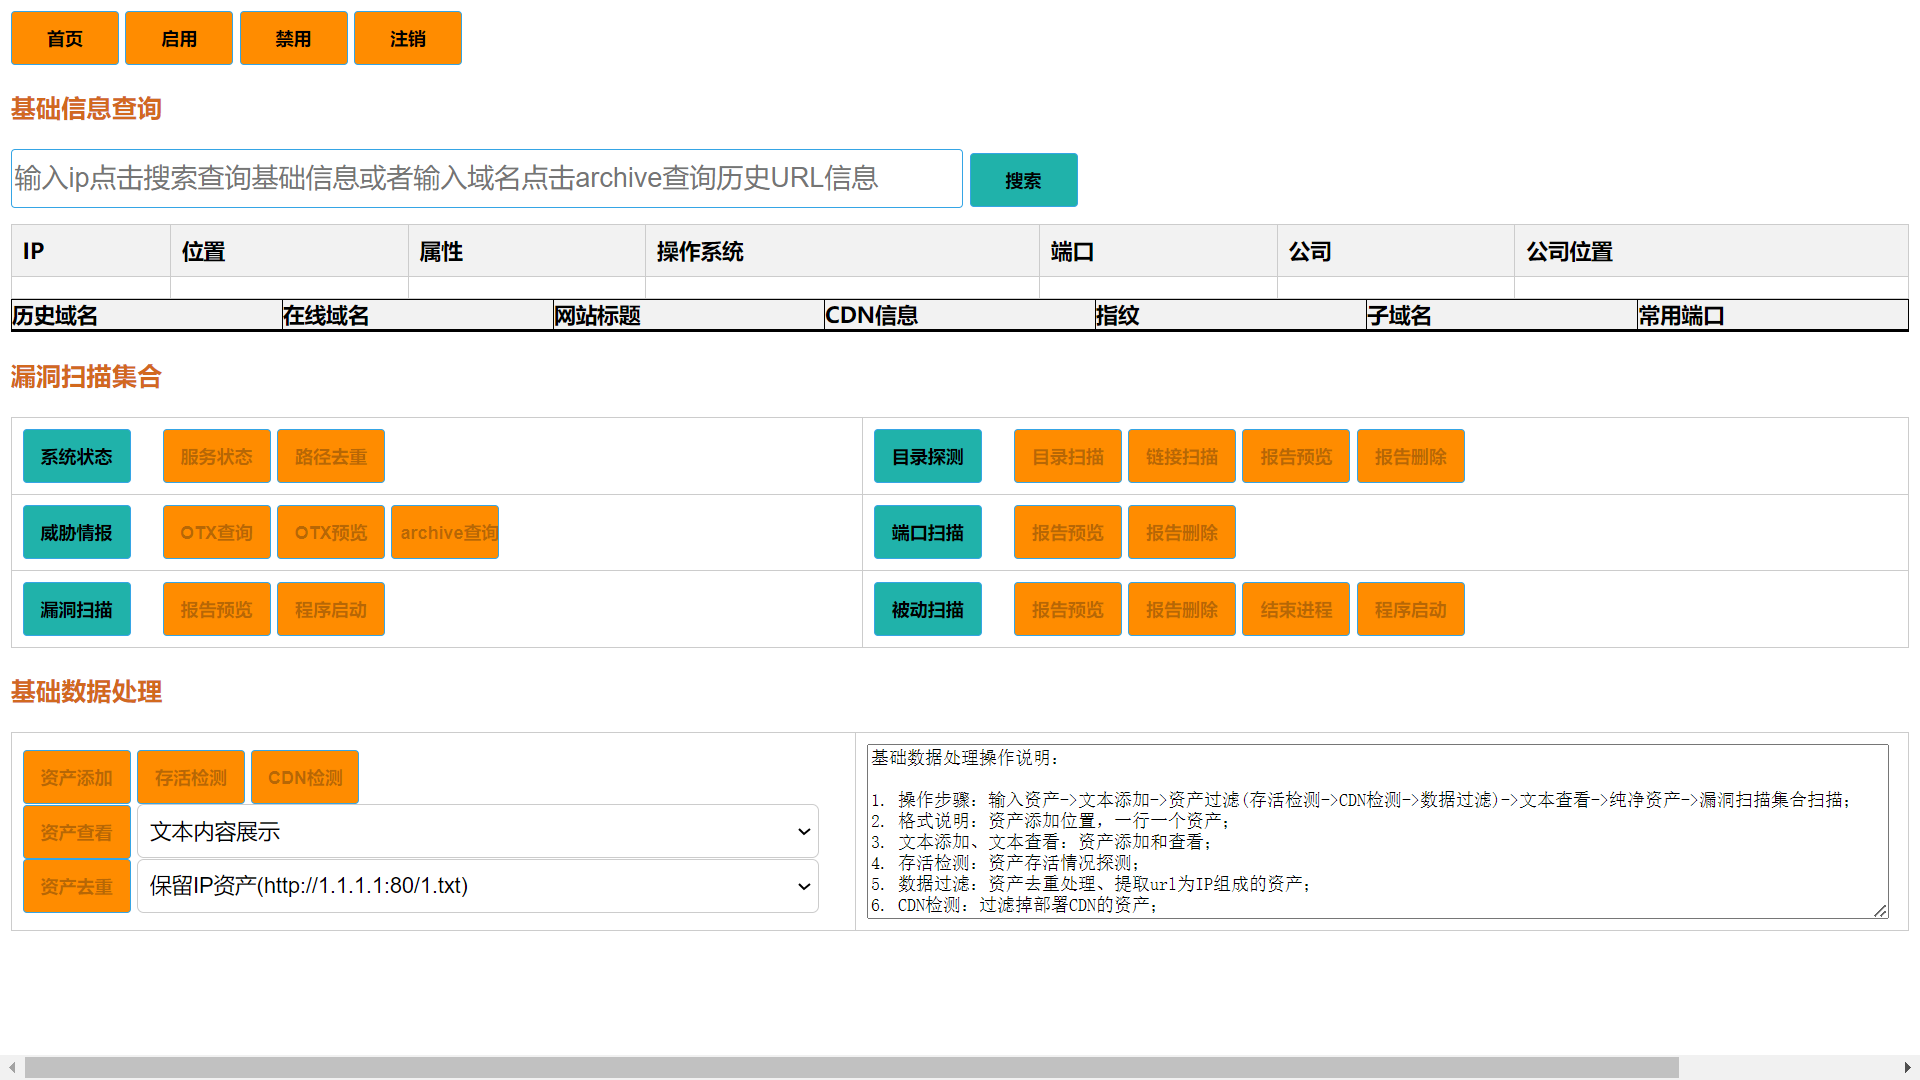
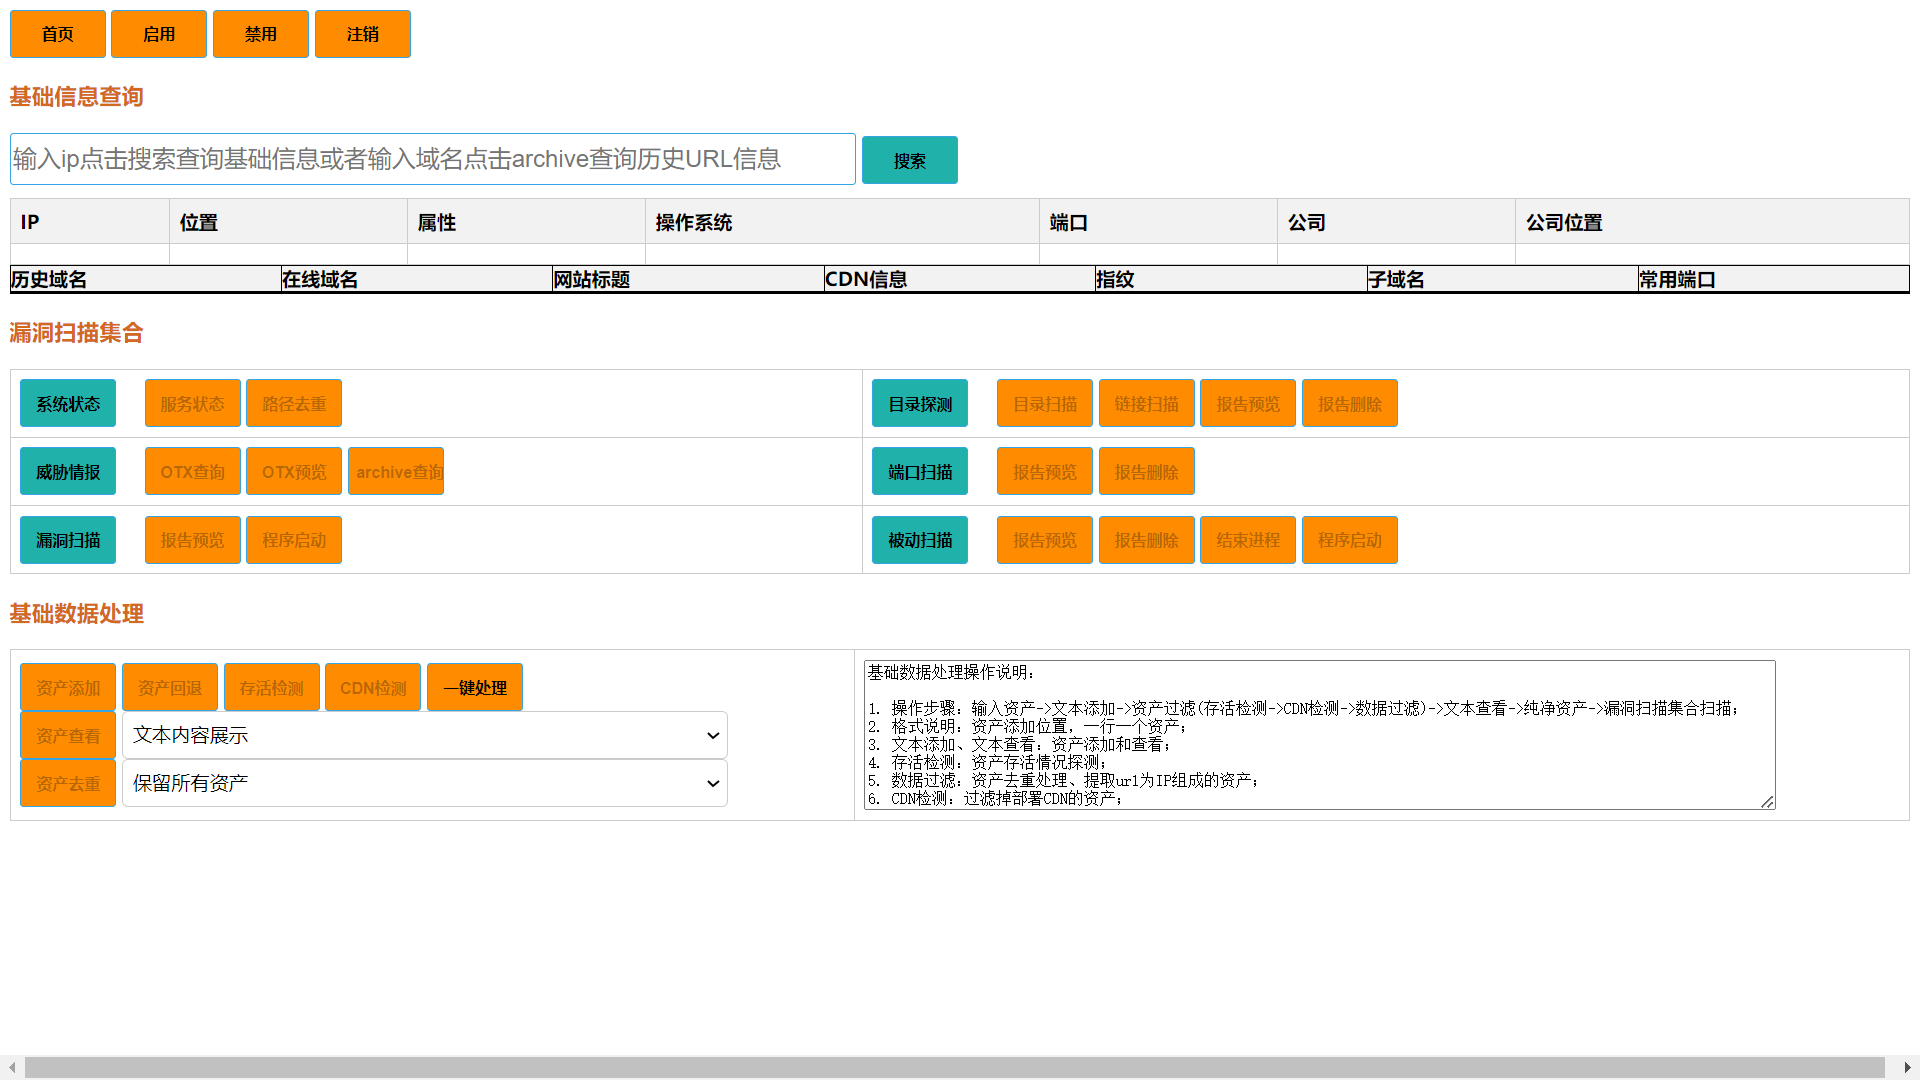
新增基础数据一键处理、资产回退

Changed region(s): [[0.0, 0.0, 1.0, 0.8556], [0.4375, 0.3361, 0.9688, 0.8556], [0.875, 0.9778, 1.0, 1.0]]

diff --git a/static/js/common.js b/static/js/common.js
@@ -61,7 +61,7 @@ function statusnmapfunc() {
     })
     $.getJSON("/nmapqueuestatus/",
         function (info) {
-            alert(info.nmapstatus + '\n' + info.nucleistatus + '\n' + info.xraystatus + '\n' + info.radstatus+'\n'+info.dirscanstatus)
+            alert(info.nmapstatus + '\n' + info.nucleistatus + '\n' + info.xraystatus + '\n' + info.radstatus + '\n' + info.dirscanstatus)
         })
 }
 
@@ -69,13 +69,13 @@ function statusnmapfunc() {
 
 //xray报告预览
 function xrayreportshow() {
-    window.open("http://ip:18888/", "_blank");
+    window.open("http://121.37.207.248:18888/", "_blank");
 }
 
 
 //urlfinder报告预览
 function urlfinderreportshow() {
-    window.open("http://ip:16666/", "_blank");
+    window.open("http://121.37.207.248:16666/", "_blank");
 }
 
 
@@ -145,7 +145,7 @@ function sendtextareadata() {
     const lines = text.split('\n');
     // 使用jQuery的$.ajax方法发送POST请求到Flask后端  
     $.ajax({
-        url: '/submit_data',
+        url: '/submit_data/',
         type: 'POST',
         contentType: 'application/json',
         data: JSON.stringify({ lines: lines }),
@@ -263,7 +263,7 @@ function processURLs() {
 
     var uniquePaths = [];
 
-    inputUrls.forEach(function(url) {
+    inputUrls.forEach(function (url) {
         var path = url.substring(0, url.lastIndexOf('/') + 1);
         if (!uniquePaths.includes(path)) {
             uniquePaths.push(path);
@@ -277,14 +277,14 @@ function processURLs() {
 //archive 历史url查询
 function archiveurlshowfunc() {
     var inputValue = document.getElementById("myInput").value;
-    window.open("https://web.archive.org/cdx/search?collapse=urlkey&fl=original&limit=10000000000000000&matchType=domain&output=text&url="+inputValue, "_blank");
+    window.open("https://web.archive.org/cdx/search?collapse=urlkey&fl=original&limit=10000000000000000&matchType=domain&output=text&url=" + inputValue, "_blank");
 }
 
 
 //启用按钮
-function startbutton(){
+function startbutton() {
     var button2 = document.getElementById("button2");
-    button2.disabled = false; 
+    button2.disabled = false;
     var button3 = document.getElementById("button3");
     button3.disabled = false;
     var button4 = document.getElementById("button4");
@@ -328,17 +328,19 @@ function startbutton(){
     button23.disabled = false;
     var button24 = document.getElementById("button24");
     button24.disabled = false;
+    var button25 = document.getElementById("button25");
+    button25.disabled = false;
+
 }
 
 //禁用按钮
-function stopbutton(){
+function stopbutton() {
     var button2 = document.getElementById("button2");
-    button2.disabled = true; 
+    button2.disabled = true;
     var button3 = document.getElementById("button3");
     button3.disabled = true;
     var button4 = document.getElementById("button4");
     button4.disabled = true;
-
     var button6 = document.getElementById("button6");
     button6.disabled = true;
     var button7 = document.getElementById("button7");
@@ -377,13 +379,15 @@ function stopbutton(){
     button23.disabled = true;
     var button24 = document.getElementById("button24");
     button24.disabled = true;
+    var button25 = document.getElementById("button25");
+    button25.disabled = true;
 
 }
 
 
 //跳转到目录扫描页面
 function jumpdirscanpage() {
-    window.open("http://ip:17777/dirscanpage/", "_blank");
+    window.open("http://121.37.207.248:17777/dirscanpage/", "_blank");
 }
 
 
@@ -398,13 +402,13 @@ function filedeweightingfunc() {
         },
         success: function (res) {
             console.log(res)
-            console.log('数据处理已完成')
+            console.log('资产去重成功点击文本查看最新数据')
         },
         error: function () {
-            alert('数据处理出错')
+            alert('资产去重处理出错')
         },
         complete: function () {
-            alert('数据处理已完成')
+            alert('资产去重成功点击文本查看最新数据')
         }
     })
 }
@@ -414,7 +418,7 @@ function filterstatuscodefunc() {
     $.ajax({
         url: '/filterstatuscodebyhttpx/',
         method: 'GET',
-    
+
         success: function (res) {
             console.log(res)
             console.log('存活检测成功点击文本查看最新数据')
@@ -433,7 +437,7 @@ function urlfinderscanfunc() {
     $.ajax({
         url: '/starturlfinderinterface/',
         method: 'GET',
-    
+
         success: function (res) {
             console.log(res)
             console.log('正在进行链接扫描稍后点击报告预览查看报告')
@@ -472,7 +476,7 @@ function filtercdndatafunc() {
     $.ajax({
         url: '/cdn_service_recogize/',
         method: 'GET',
-    
+
         success: function (res) {
             console.log(res)
             console.log('CDN检测成功点击文本查看最新数据')
@@ -482,6 +486,56 @@ function filtercdndatafunc() {
         },
         complete: function () {
             alert('CDN检测成功点击文本查看最新数据')
+        }
+    })
+}
+
+//一键处理
+function oneclickprocessing() {
+    var button19 = document.getElementById("button19");
+    var button20 = document.getElementById("button20");
+    var button24 = document.getElementById("button24");
+    var button17 = document.getElementById("button17");
+
+    button19.disabled = false;
+    button20.disabled = false;
+    button24.disabled = false;
+    button17.disabled = false;
+    // 定义一个函数来模拟点击并安排下一次点击（如果有的话）  
+    function simulateClickAndSleep(buttons, index, interval) {
+        // 如果索引在按钮数组范围内，则模拟点击并安排下一次点击  
+        if (index < buttons.length) {
+            // 模拟点击当前按钮  
+            buttons[index].click();
+            console.log('Clicked button ' + (index + 1));
+
+            // 休眠interval毫秒后，安排下一次点击  
+            setTimeout(function () {
+                simulateClickAndSleep(buttons, index + 1, interval);
+            }, interval);
+        }
+    }
+
+    // 开始模拟点击，从第一个按钮开始，每次点击后休眠10000毫秒（10秒）  
+    var buttonsToClick = [button20, button24, button19, button17];
+    simulateClickAndSleep(buttonsToClick, 0, 10000); // 第一个参数是按钮数组，第二个参数是开始索引，第三个参数是休眠时间（毫秒）
+}
+
+//资产回退
+function assetsbackspacefunc() {
+    $.ajax({
+        url: '/assetsbackspaceinterface/',
+        method: 'GET',
+
+        success: function (res) {
+            console.log(res)
+            console.log('资产回退成功点击文本查看最新数据')
+        },
+        error: function () {
+            alert('资产回退出现错误')
+        },
+        complete: function () {
+            alert('资产回退成功点击文本查看最新数据')
         }
     })
 }

diff --git a/templates/index.html b/templates/index.html
@@ -167,9 +167,10 @@
 		<tr>
 			<td>
 				<input type="button" id="button3" value="资产添加" onclick="sendtextareadata()" disabled>
+				<input type="button" id="button25" value="资产回退" onclick="assetsbackspacefunc()" disabled>
 				<input type="button" id="button20" class="hover-color" name="commit" value="存活检测" onclick="filterstatuscodefunc()" disabled>
-				<input type="button" id="button24" value="CDN检测" onclick="filtercdndatafunc()" disabled><br>
-
+				<input type="button" id="button24" value="CDN检测" onclick="filtercdndatafunc()" disabled>
+				<input type="button"  value="一键处理" onclick="oneclickprocessing()" > <br>
 				<input type="button" id="button17" value="资产查看" onclick="textinfoshowfunc()" disabled>
 	<select id="opbyid3">
 		<option>文本内容展示</option>
@@ -180,8 +181,8 @@
 	<input type="button" id="button19" class="hover-color" name="commit" value="资产去重" onclick="filedeweightingfunc()"
 		disabled>
 	<select name="fileqingxiname">
-		<option value="1">保留IP资产(http://1.1.1.1:80/1.txt)</option>
 		<option value="2">保留所有资产</option>
+		<option value="1">保留IP资产(http://1.1.1.1:80/1.txt)</option>	
 	</select>
 			</td>
 			<td>

diff --git a/scan_main_web.py b/scan_main_web.py
@@ -295,7 +295,7 @@ def killprocess():
 
 
 #前端文本框添加URL后端接口
-@app.route('/submit_data', methods=['POST'])  
+@app.route('/submit_data/', methods=['POST'])  
 def submit_data():
     user = session.get('username')
     if str(user) == main_username: 
@@ -304,6 +304,10 @@ def submit_data():
         f = open(file='/TIP/batch_scan_domain/url.txt',mode='w')
         for line in data:
             f.write(str(line)+"\n")
+
+        #资产备份
+        os.popen('cp /TIP/batch_scan_domain/url.txt /TIP/batch_scan_domain/url_back.txt')
+
         return jsonify({'message': '数据已添加', 'lines': data})
     else:
         return render_template('login.html')
@@ -515,6 +519,17 @@ def cdn_service_recogize():
         except Exception as e:
             print("捕获到异常:",e)
     return render_template('login.html')
+
+
+#资产回退
+@app.route("/assetsbackspaceinterface/")
+def assetsbackspaceinterface():
+    user = session.get('username')
+    if str(user) == main_username:
+        os.popen('cp /TIP/batch_scan_domain/url_back.txt /TIP/batch_scan_domain/url.txt')
+        return render_template('index.html')
+    else:
+        return render_template('login.html')
 
 
 if __name__ == '__main__':  
